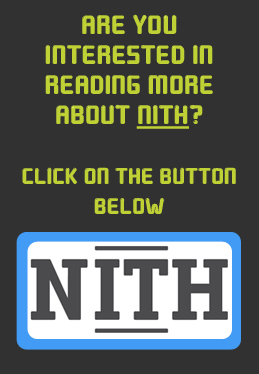
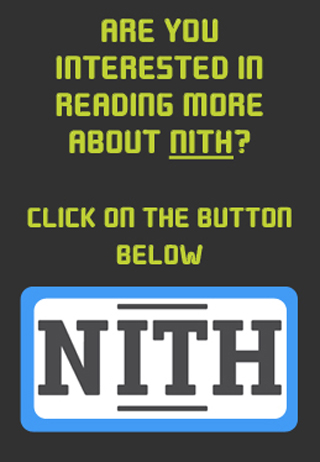
Fikset bredde på elementer i sidebaren, samt høyremarginen

diff --git a/css/main.css b/css/main.css
@@ -129,8 +129,9 @@ blockquote,address,table,fieldset,figure,pre,
 .sidebar {
     display: inline-block;
 	margin-top: 20px;
-    width: 120;
+    width: 320px;
     float: right;
+    margin-right: 10px;
 }
 
 
@@ -141,14 +142,13 @@ blockquote,address,table,fieldset,figure,pre,
  }
 
 .events {
-        margin-right: 10px;
         border-radius: 7px;
         box-shadow: 0px 0px 5px 0px #919191;
         background-color: #ffffff;
         
  }
 .events td, tr:nth-of-type(even) {
-        width: 150px;
+        width: 320px;
         background-color: #ffffff;
         padding-left: 10px;
 
